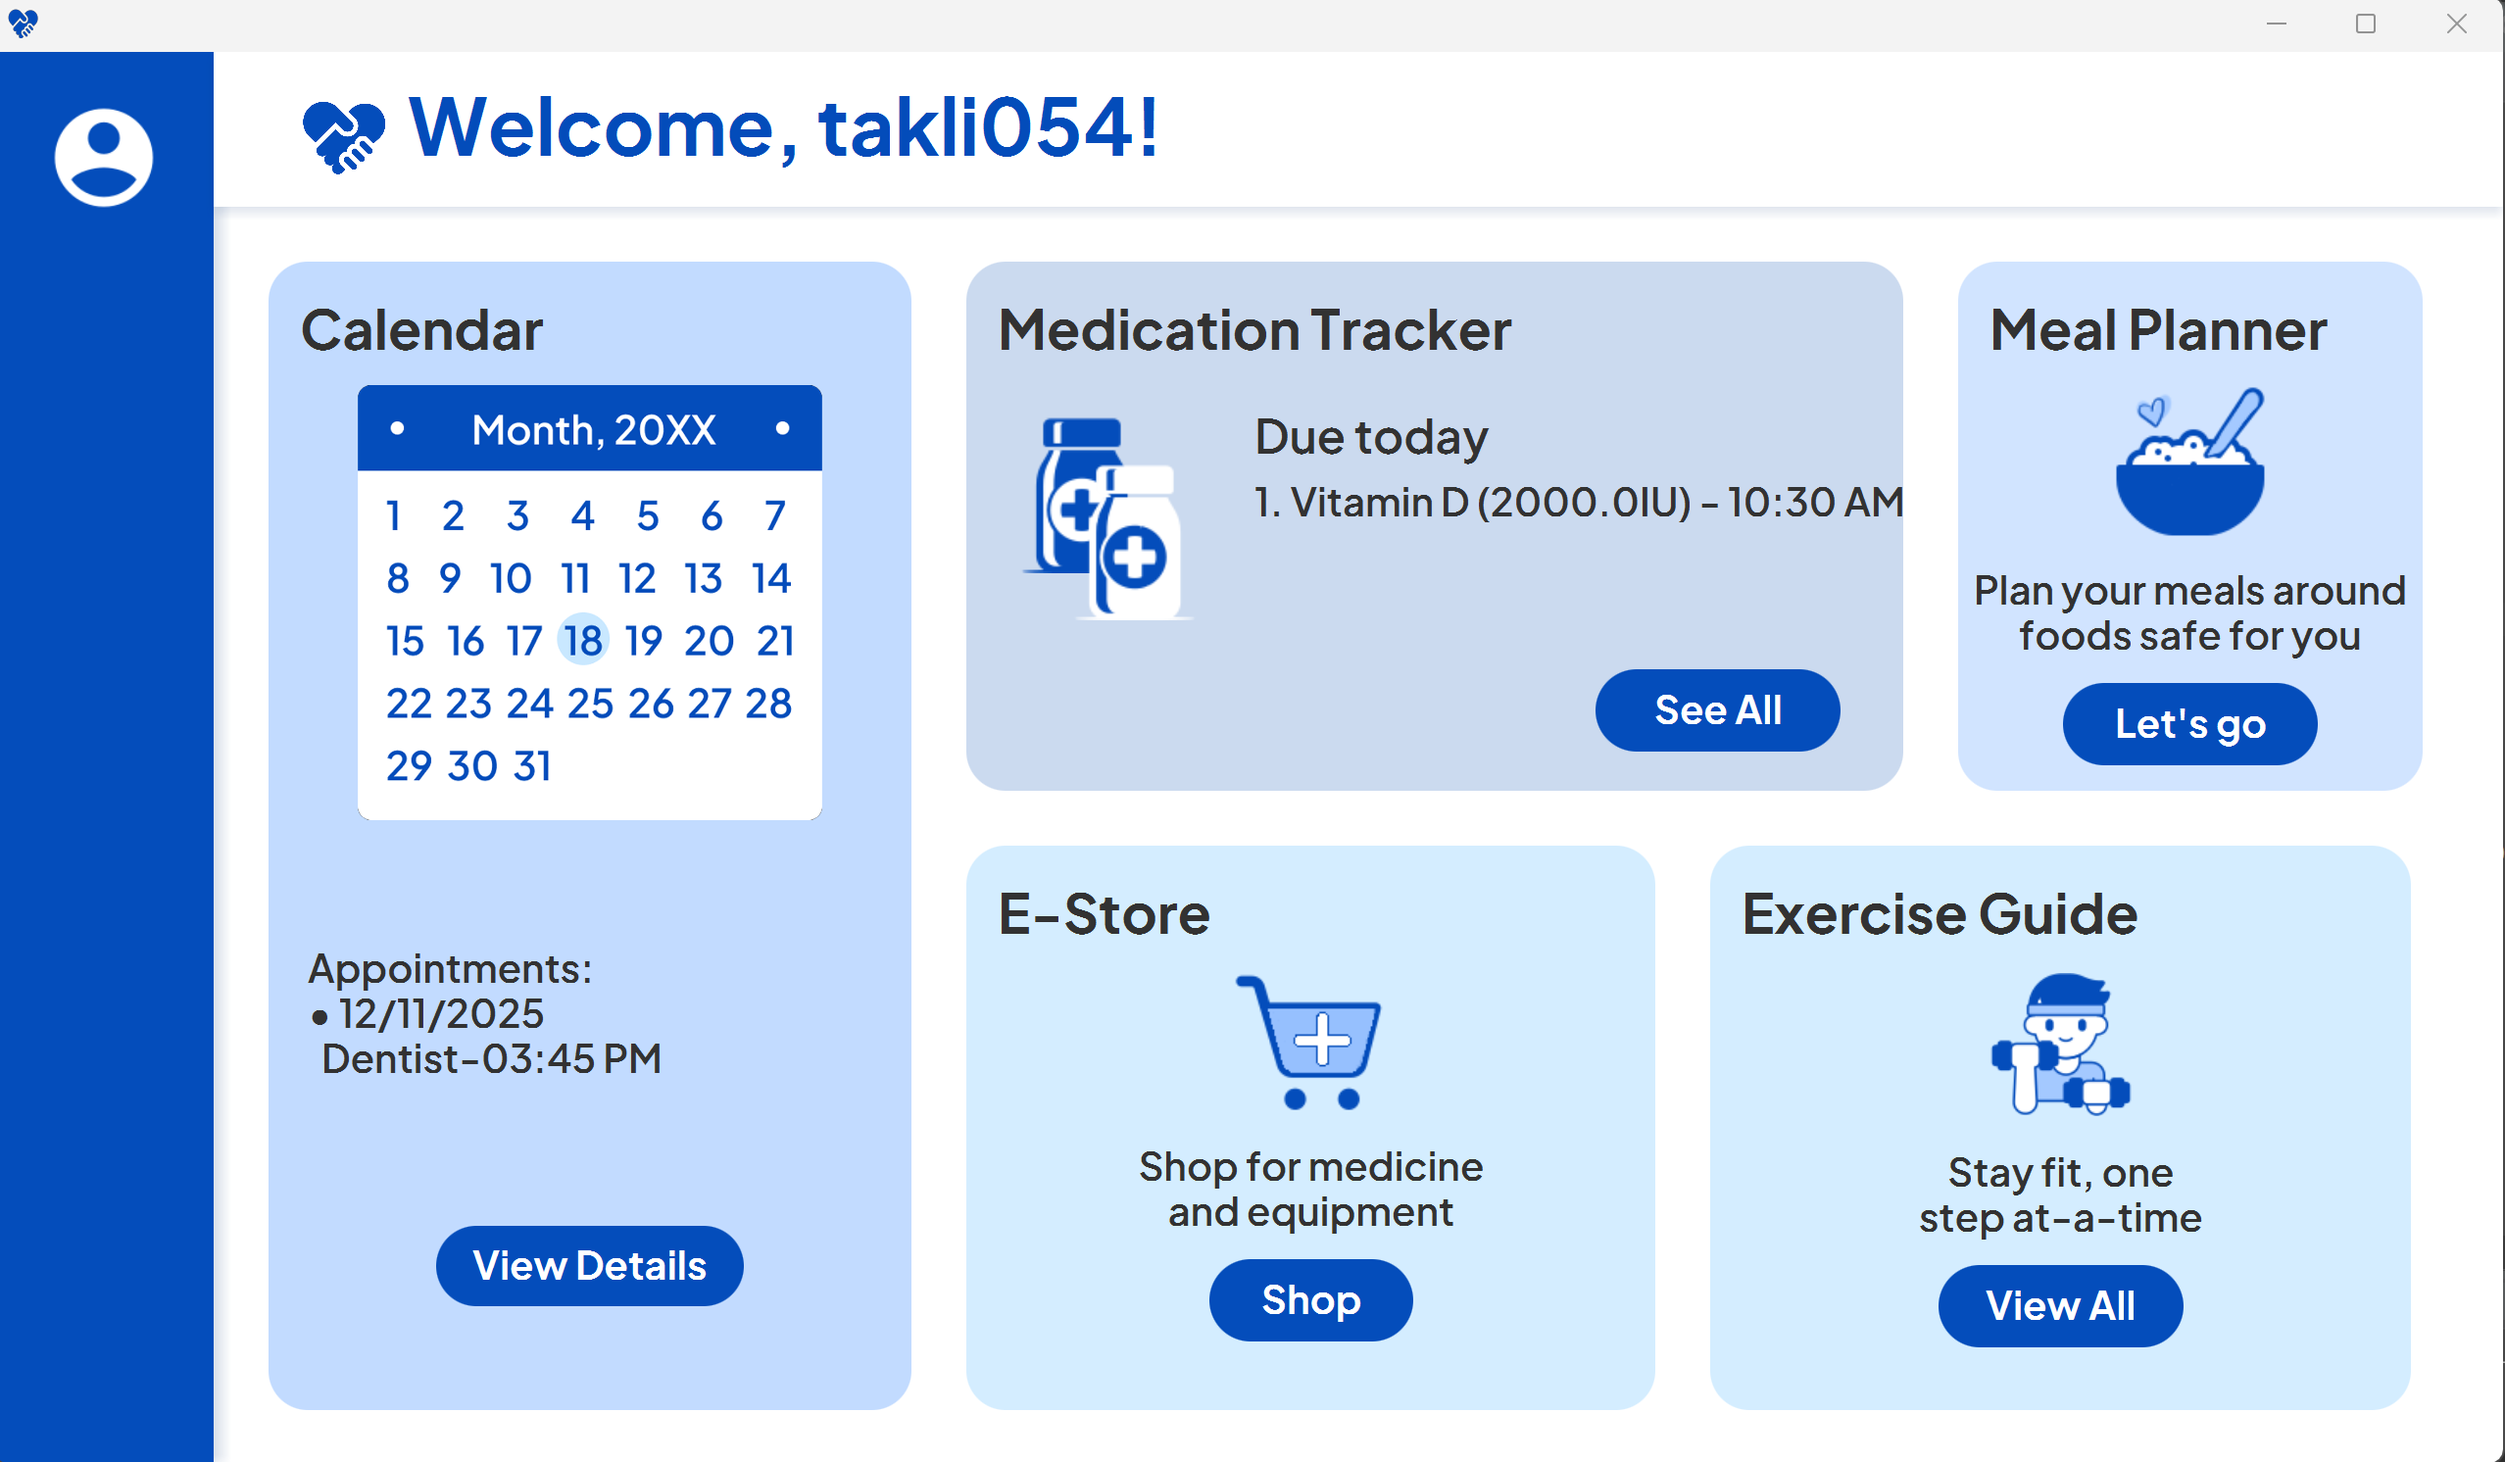
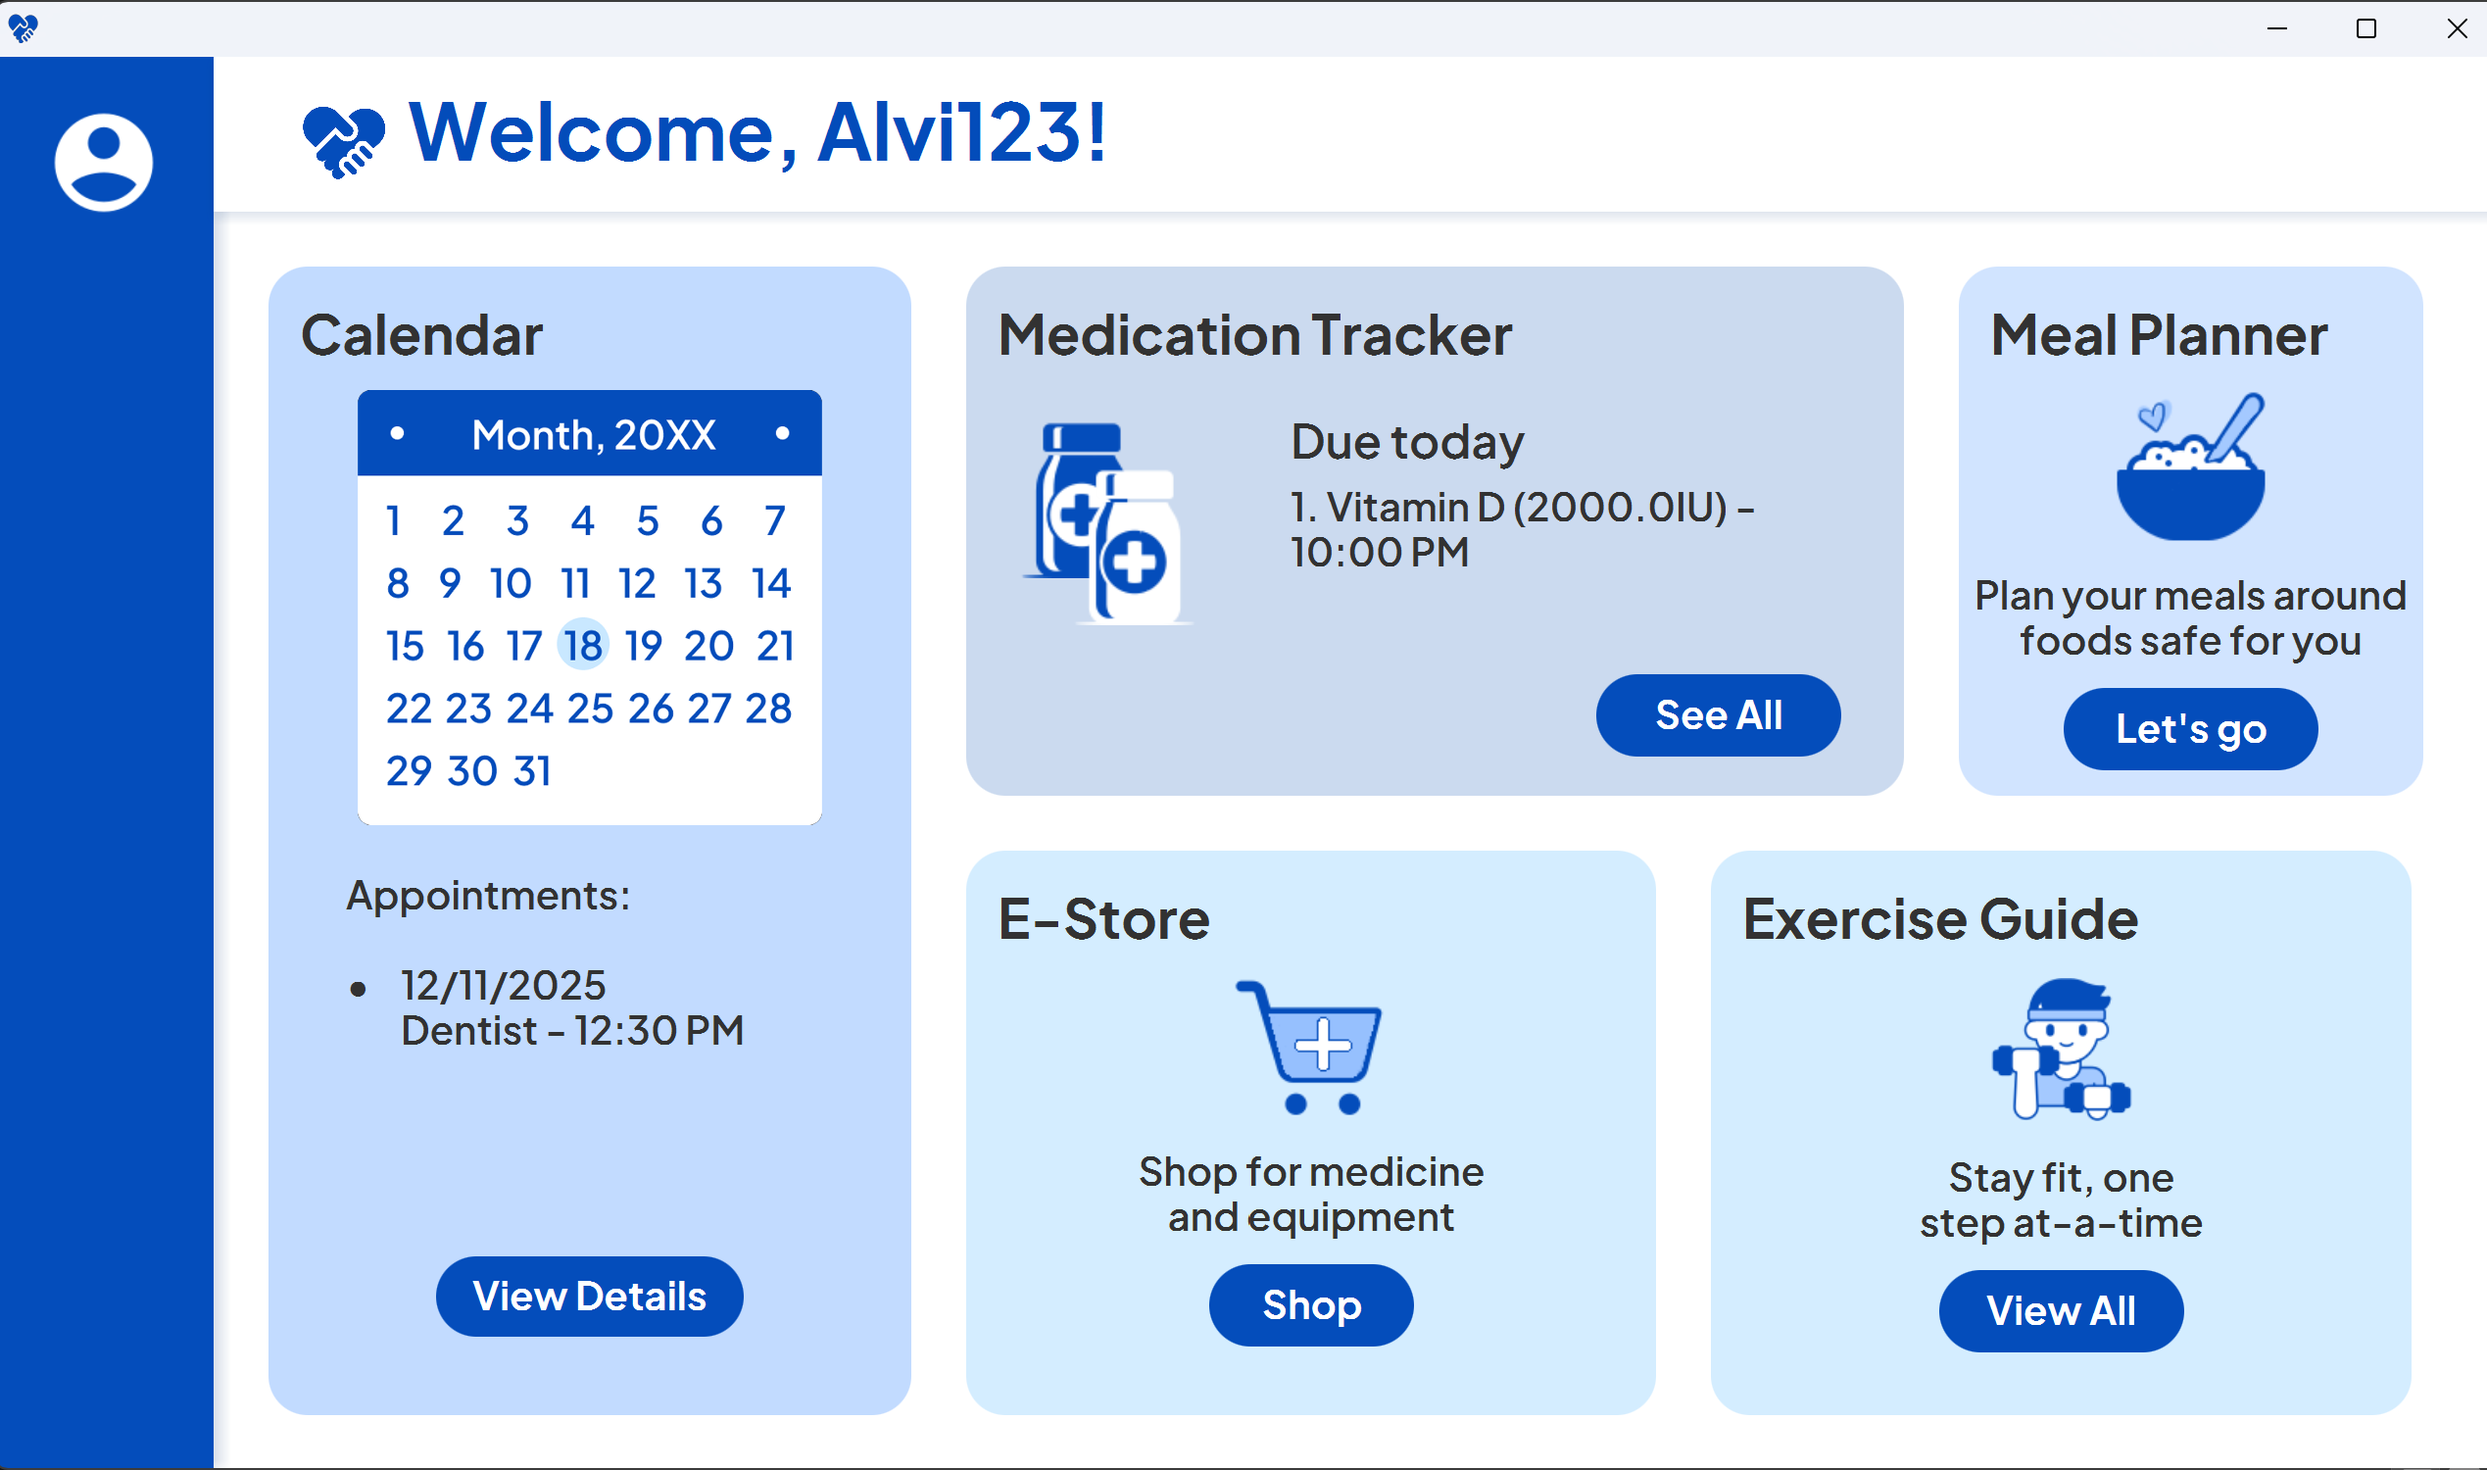
Update screenshots

diff --git a/src/controllers/HomeController.java b/src/controllers/HomeController.java
@@ -91,9 +91,13 @@ public class HomeController extends TransitionUtils implements Initializable {
      * Updates the "nothingDue" label with the list of pending medications.
      */
     private void updatePendingMedicationsLabel(List<Medicine> pendingMedicines) {
-        if (pendingMedicines.isEmpty()) {
+        if (pendingMedicines.isEmpty()) 
+        {
             nothingDue.setText("Nothing due.");
-        } else {
+        } 
+        
+        else 
+        {
             StringBuilder medicationsText = new StringBuilder("");
           
             for (int i = 0; i < pendingMedicines.size(); i++) {
@@ -109,17 +113,22 @@ public class HomeController extends TransitionUtils implements Initializable {
             nothingDue.setText(medicationsText.toString());
         }
     }
+    
     private void updateAppointmentsLabel() {
         int userId = UserSession.getInstance().getUserId();
-        if (userId != -1) {
+        if (userId != -1) 
+        {
             List<Appointment> appointments = DatabaseUtil.getAppointmentsForUser(userId);
 
             if (appointments.isEmpty()) {
                 noAppointment.setText("Nothing Scheduled");
-            } else {
-                StringBuilder appointmentsText = new StringBuilder("Appointments:\n");
+            } 
+            
+            else 
+            {
+                StringBuilder appointmentsText = new StringBuilder("Appointments:\n\n");
                 for (Appointment appt : appointments) {
-                    appointmentsText.append("• ")
+                    appointmentsText.append("•\t")
                             
                             .append(appt.getDay())
                             .append("/")
@@ -127,15 +136,18 @@ public class HomeController extends TransitionUtils implements Initializable {
                             .append("/")
                             .append(appt.getYear())
                             .append("\n")
-                            .append("  ")
+                            .append("\t")
                             .append(appt.getType())
-                            .append("-")
+                            .append(" - ")
                             .append(appt.getTime())
                             .append("\n");
                 }
                 noAppointment.setText(appointmentsText.toString());
             }
-        } else {
+        } 
+        
+        else 
+        {
             noAppointment.setText("No user is logged in.");
         }
     }

diff --git a/src/application/Main.java b/src/application/Main.java
@@ -19,7 +19,7 @@ public class Main extends Application {
 	@Override
 	public void start(Stage primaryStage) {
 		try {
-			root= FXMLLoader.load(Objects.requireNonNull(getClass().getResource("/controllers/OnboardingScreen1.fxml")));
+			root= FXMLLoader.load(Objects.requireNonNull(getClass().getResource("/controllers/Login.fxml")));
 
 			Scene scene = new Scene(root, Color.WHITE);
 //			scene.getStylesheets().add(getClass().getResource("/resources/css/onboarding.css").toExternalForm());
